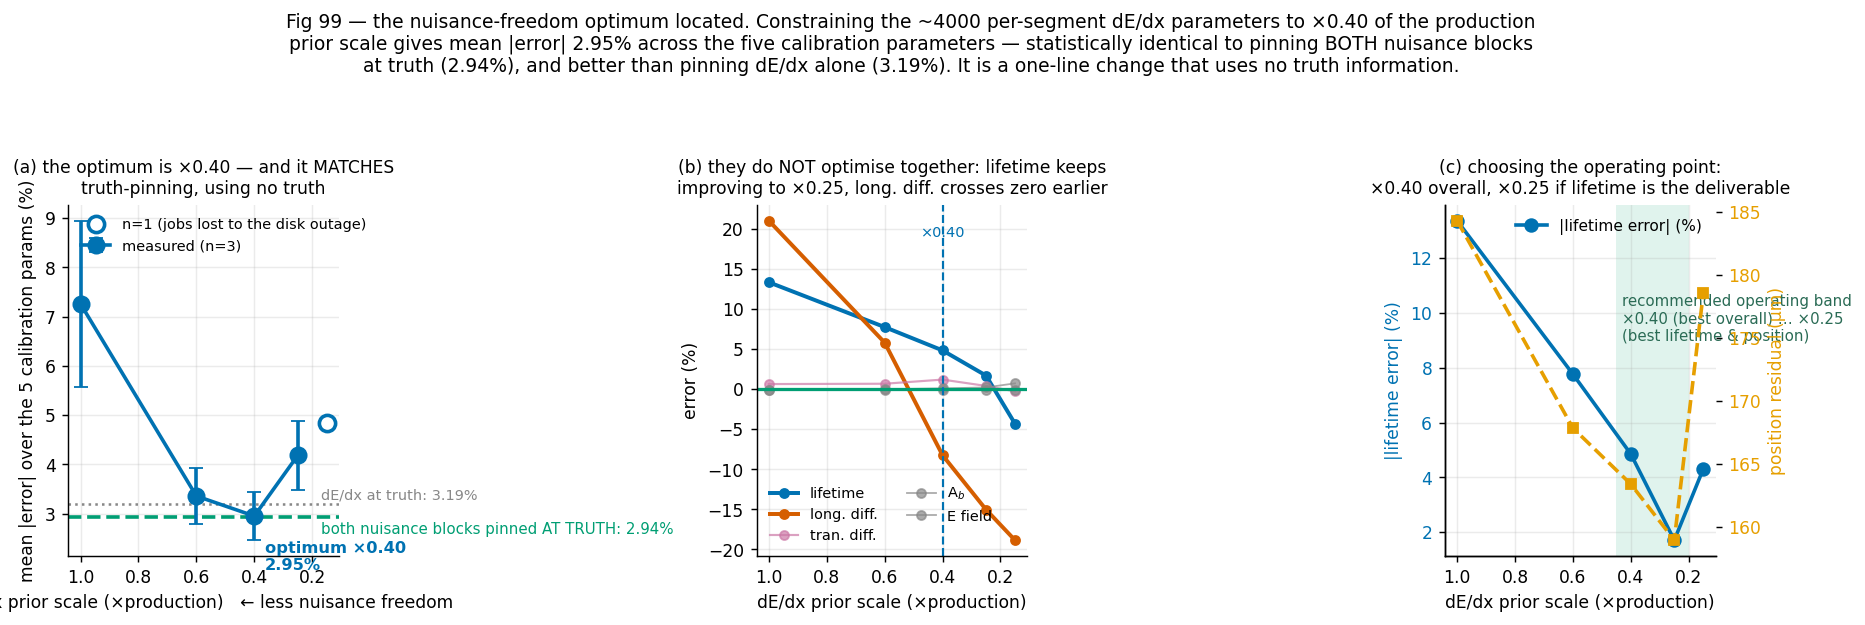
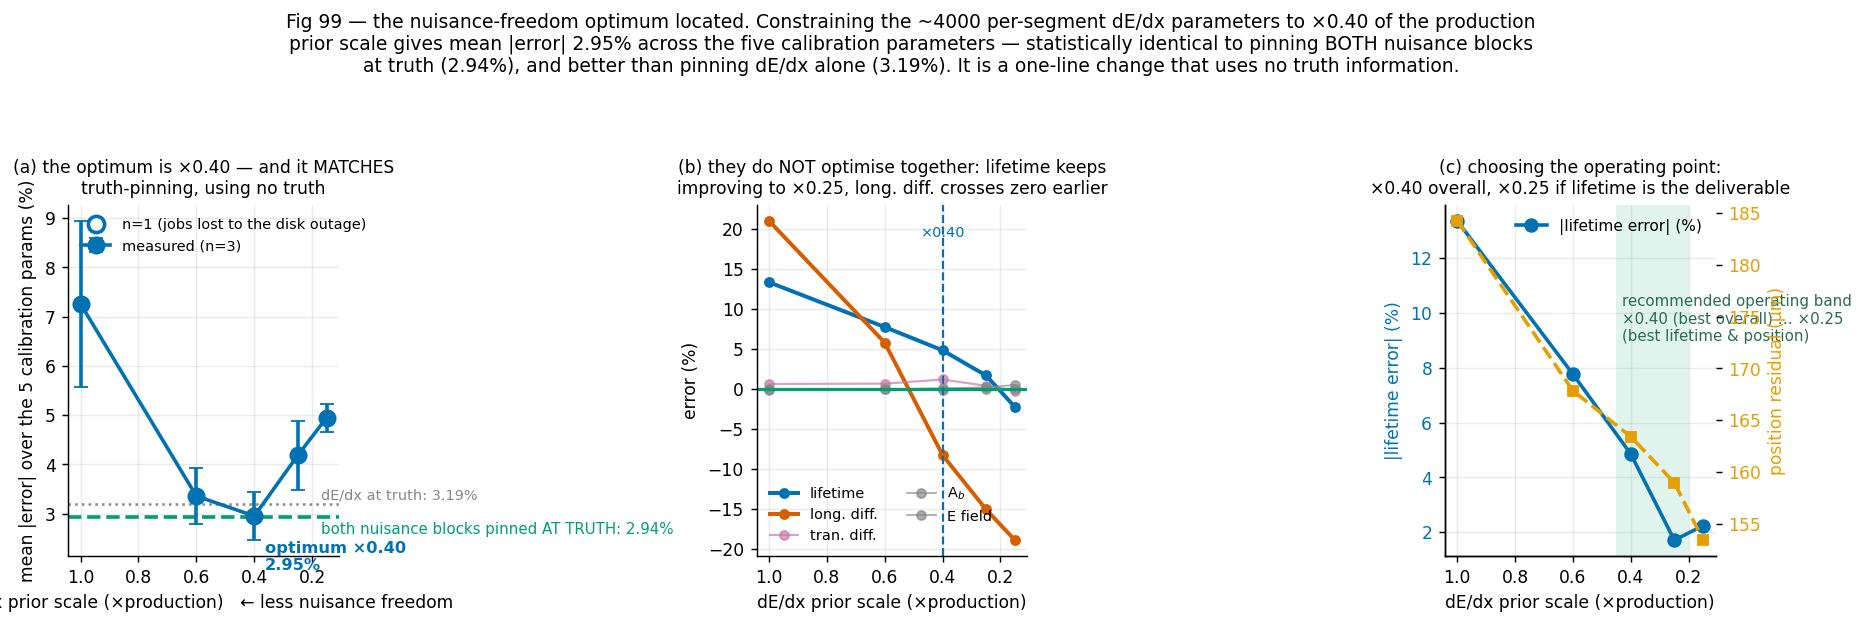
correct: the diffusion mechanism test does NOT survive n=3
At n=2 it read -6.71 points / 61% of the attenuation-rate error removed.
Seed 7 reverses it (+20.55 -> +20.93), giving -4.34 +- 2.88 (1.5sigma),
2/3, 31% removed. Downgraded to suggestive. Narrow-prior scan is now
complete at n=3 for every point; the x0.40 optimum (2.95%) holds.

Claude-Session: https://claude.ai/code/session_01AMc19Km3iX9DSrSGRf7Zz2

diff --git a/NOISE_CAMPAIGN_DIGEST.md b/NOISE_CAMPAIGN_DIGEST.md
@@ -1303,6 +1303,21 @@ fresh samples and the error bar tightens as designed (±1.6 → ±1.26). NOTE: s
 **−0.57%** — the first non-positive replica, so the distribution is wide with a tail reaching
 truth, NOT a strict one-sided offset. long_diff +14.00 ± 2.53%.
 
+**`LDPIN` — the diffusion mechanism test: ⚠ WEAKENS AT n=3, NOT established (22 Sep).**
+**Tests** — long_diff pinned at truth, everything else fitted, τ=2400 where the bias is +14.8%.
+Paired control = the `CURVE2400D*` runs.
+**At n=2 it looked confirmed**: −6.71 points, 2/2, 61% of the attenuation-rate error removed. I
+reported it as such.
+**At n=3 it does not hold.** Per-seed deltas −3.86, −9.55, **+0.38** — seed 7 does not improve at
+all (+20.55 → +20.93). Mean **−4.34 ± 2.88 points (1.5σ)**, 2/3, and only **31%** of the rate error
+removed (−0.92% → −0.63% of charge over 30 cm).
+**Status: SUGGESTIVE, not established.** The diffusion→threshold→attenuation story remains the best
+mechanism on offer and the sign is right on 2 of 3 seeds, but one seed flatly contradicts it and the
+effect is not significant at n=3. This is the same n=2→n=3 reversal that has bitten the campaign
+repeatedly (ALT/ALTW, pass3r8, CINIT); the rule stands — **never report a mechanism at n=2.**
+**Next** — the `LINKON/LINKOFF` arms test the same physics from the other direction (tying
+long_diff to tran_diff rather than pinning it), against a link-consistent truth.
+
 **`CURVE*` — ROUTE B DELIVERED: the estimator calibration curve (19 Sep, fig 98). 24/24 COMPLETE.**
 **Tests** — 6 true lifetimes (800/1200/1800/2400/3200/4400 µs) × the same 4 track samples, with the
 other four calibration parameters pinned at the seed-0 truth via `--set_target_vals`, so only τ
